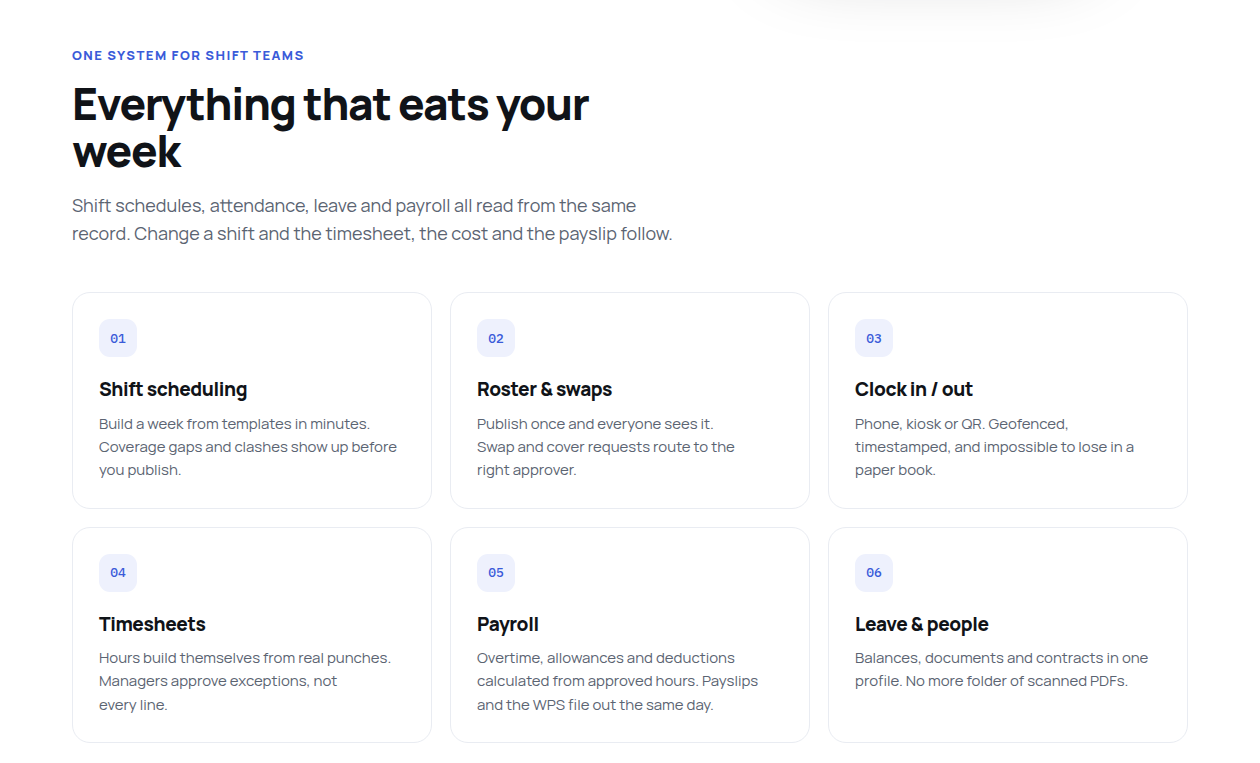
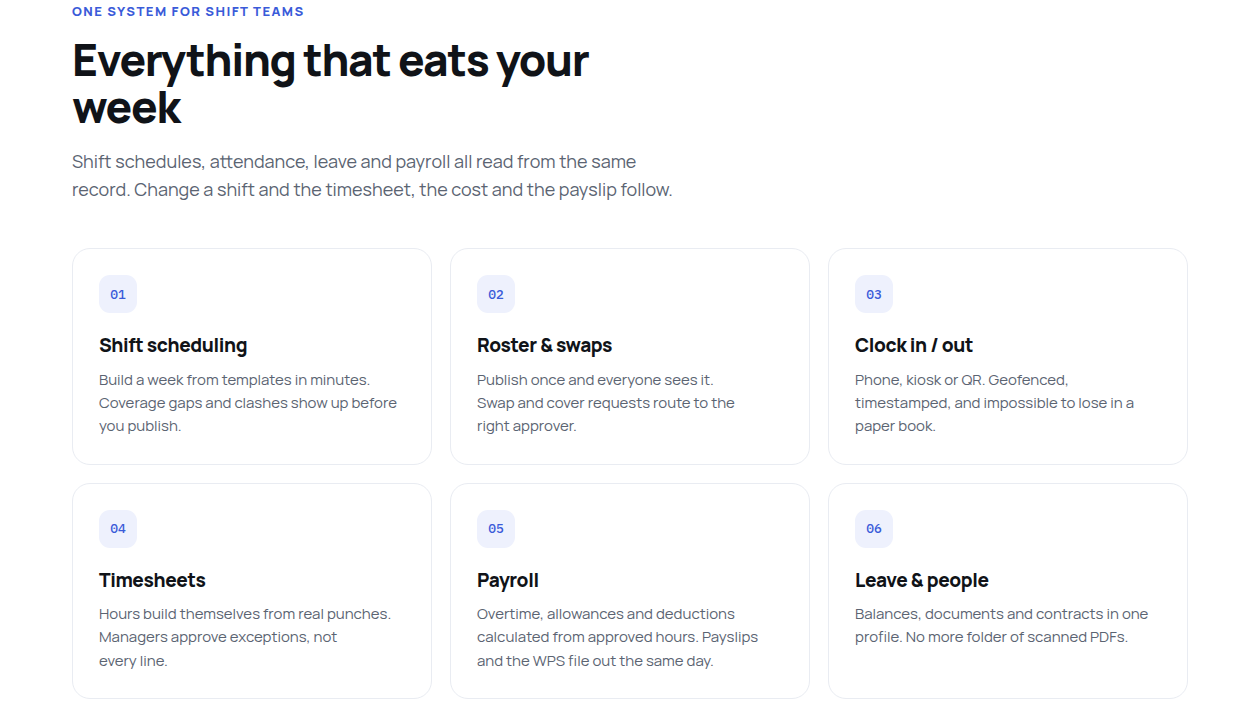
Fix tenancy diagram, correct My role, hide unverifiable hero stats

diff --git a/README.md b/README.md
@@ -56,7 +56,7 @@
   <img src="docs/screenshots/landing-admin-tour-payroll.png" width="49%" alt="Interactive admin tour on the landing page: the pay run screen with sample employees">
 </p>
 
-<sub>All screenshots are real captures of the live sites. The phone stack and the admin tour are interactive mock-ups on the marketing page, filled with illustrative sample data. They show the planned modules and are not captures of the signed-in console. No real company or employee data appears anywhere.</sub>
+<sub>All screenshots are real captures of the live sites. The phone stack and the admin tour are interactive mock-ups on the marketing page, filled with illustrative sample data shipped with the marketing site (URLs shown inside the mock-ups are illustrative too). They show the planned modules and are not captures of the signed-in console. No real company or employee data appears anywhere.</sub>
 
 ## Features
 
@@ -96,7 +96,7 @@ flowchart LR
     W["Next.js web<br/>admin console + /portal"]
     A["NestJS API<br/>modular monolith"]
   end
-  subgraph Ops["ops.shiftwell.everbuild.cloud"]
+  subgraph Ops["Operator host"]
     N2["nginx · TLS<br/>/ops and operator API only"]
   end
   DB[("PostgreSQL 16<br/>row-level security<br/>+ pg-boss jobs")]
@@ -120,7 +120,7 @@ The API is one deployable with walls inside it. `core/` holds tenancy, identity,
 
 ### Key engineering decisions
 
-- **Tenant isolation in three layers.** Every table has `tenantId` as the first column of every index. PostgreSQL row-level security is turned on and forced on every tenant table. Each request runs in a transaction that sets the tenant with `SET LOCAL`, never plain `SET`, so a pooled connection cannot carry one company's data into another company's request. The API connects as a role that owns nothing. Foreign keys are composite on tenant and id, because Postgres runs its integrity checks with RLS bypassed. A dedicated e2e suite proves the isolation, and it refuses to run as a role that could bypass RLS.
+- **Tenant isolation in three layers.** Every tenant table has `tenantId` as the first column of every index. PostgreSQL row-level security is turned on and forced on every tenant table. Each request runs in a transaction that sets the tenant with `SET LOCAL`, never plain `SET`, so a pooled connection cannot carry one company's data into another company's request. The API connects as a role that owns nothing. Foreign keys are composite on tenant and id, because Postgres runs its integrity checks with RLS bypassed. A dedicated e2e suite proves the isolation, and it refuses to run as a role that could bypass RLS.
 - **Auth that fails closed.** The global guards run in a fixed order: JWT, then audience, then roles, then subscription. After them, an interceptor (not middleware) sets the tenant from the verified token. A route without a declared audience is rejected. Refresh tokens rotate within a family, and replaying a used one revokes the whole family. Access is re-read from the database on every request. Sign-in errors never reveal whether an account exists, and per-account lockout works alongside per-IP rate limits.
 - **Money is integer fils.** No floats or decimal strings. The money helpers split amounts so the parts always add up exactly to the total, because a one-fil discrepancy gets a WPS bank file rejected.
 - **Country rules are data.** Identity document types, bank-account fields and formats, and salary-component tags come from per-country JSON rule packs. Supporting a new country means adding a file, not a schema change or an `if (country === 'AE')`.
@@ -143,18 +143,18 @@ The API is one deployable with walls inside it. `core/` holds tenancy, identity,
 
 ## My role
 
-I built this at **Sudan Tech Solutions (STS)** and was the main engineer on it:
+I worked on Shiftwell at **Sudan Tech Solutions (STS)**. I built the landing site and checkout on my own, and led the API work after the initial import:
 
 - **Landing site and checkout:** I wrote all 17 commits in its repository (September to October 2026), covering the design build, SEO and structured data, the contact form, live catalogue pricing, self-serve checkout and the VPS deploy pipeline.
-- **API and console:** the organisation's repository starts with a single import commit of the existing codebase, made by a teammate. Of the 25 commits after it, I wrote 24 (29 Sep to 1 Oct 2026). They add self-serve signup, the operator console with two-factor sign-in and emailed invitations, the free plan, landing checkout support, automatic deploys to the VPS, and a series of security and correctness fixes. A teammate added the first leave-module schema on 8 Oct 2026.
-- I also wrote the project's engineering guides: the architecture rules, the deploy runbook and the roadmap.
+- **API and console:** the organisation's repository starts with a single import commit of the existing codebase, made by a teammate. Of the 26 commits after it, I wrote 25 (17 changes plus 8 merges, 29 Sep to 1 Oct 2026). They add self-serve signup, the operator console with two-factor sign-in and emailed invitations, the free plan, landing checkout support, automatic deploys to the VPS, and a series of security and correctness fixes. A teammate added the first leave-module schema on 8 Oct 2026, and the leave module is being built by a teammate on a separate branch.
+- I wrote the AI/engineering guide (AGENTS.md) and the deploy runbook, and kept the architecture guide and roadmap in line with the code as features landed.
 
 ## Status
 
 Live. The landing site went up in September 2026, and the app has been deployed automatically since 30 September 2026:
 - Landing site: [shiftwell.everbuild.cloud](https://shiftwell.everbuild.cloud)
 - Admin console and employee portal: [app.shiftwell.everbuild.cloud](https://app.shiftwell.everbuild.cloud), where you sign in with a company code
-- Operator console: [ops.shiftwell.everbuild.cloud](https://ops.shiftwell.everbuild.cloud)
+- Operator console: on its own TOTP-protected host, for platform staff only
 
 Core HR, the employee portal, billing, signup and the operator console are in production. Attendance, shifts, leave and payroll are next on the roadmap. The checkout currently runs with payments switched off, so a company is created at signup, until a real payment provider is integrated.
 

diff --git a/docs/architecture.md b/docs/architecture.md
@@ -45,7 +45,7 @@ sequenceDiagram
   G->>G: JwtAuthGuard → AudienceGuard → RolesGuard → SubscriptionGuard
   G->>I: verified user (tenantId from the token, never from a header)
   I->>R: findAll(tenantId, …)
-  R->>DB: BEGIN; SET LOCAL app.tenant_id = '<uuid>'; SELECT …
+  R->>DB: BEGIN, then SET LOCAL app.tenant_id, then SELECT …
   DB-->>R: only this tenant's rows
 ```
 
